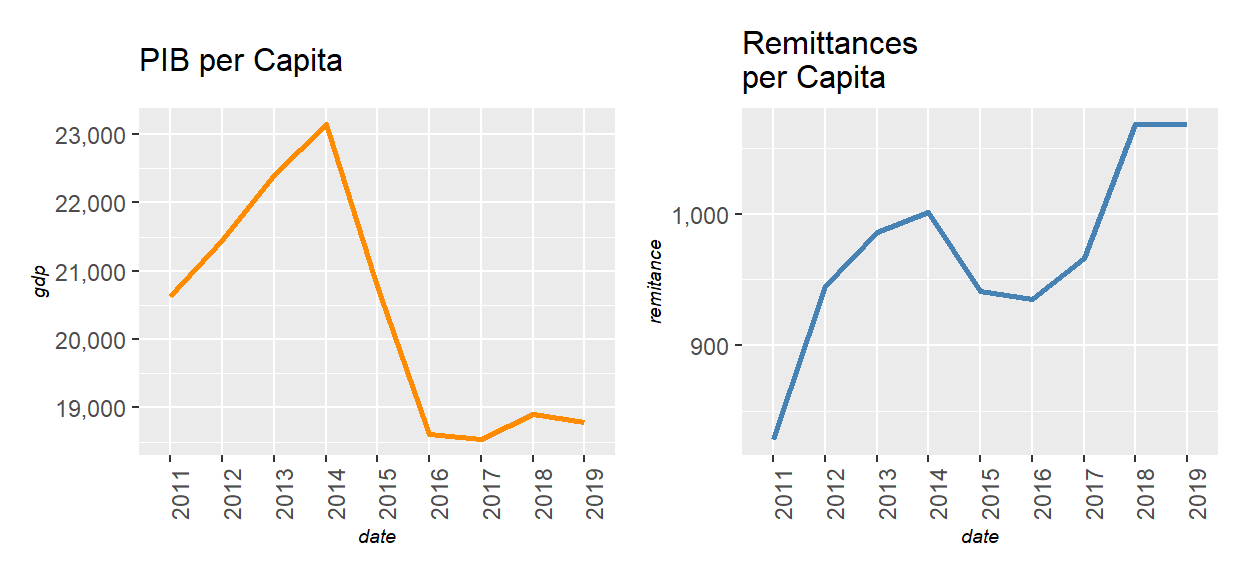
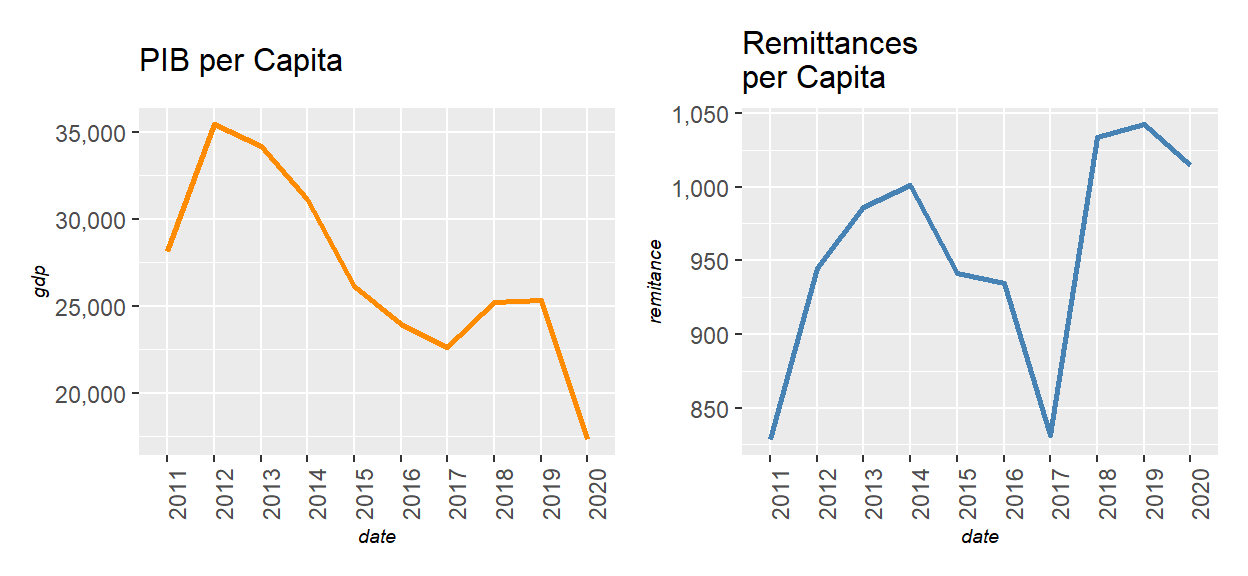
fixes

diff --git a/content/post/2020-01-20-imigration-data-analysis/index.html b/content/post/2020-01-20-imigration-data-analysis/index.html
@@ -167,55 +167,55 @@ remitances_over_gdp %&gt;%
 <td align="right">3</td>
 <td align="left">2018</td>
 <td align="left">Tajikistan</td>
-<td align="left">29.02%</td>
+<td align="left">28.12%</td>
 </tr>
 <tr class="even">
 <td align="right">4</td>
 <td align="left">2018</td>
-<td align="left">Nepal</td>
-<td align="left">28.43%</td>
+<td align="left">Somalia</td>
+<td align="left">25.33%</td>
 </tr>
 <tr class="odd">
 <td align="right">5</td>
 <td align="left">2018</td>
-<td align="left">El Salvador</td>
-<td align="left">20.63%</td>
+<td align="left">Nepal</td>
+<td align="left">25.03%</td>
 </tr>
 <tr class="even">
 <td align="right">6</td>
 <td align="left">2018</td>
-<td align="left">Bermuda</td>
-<td align="left">20.03%</td>
+<td align="left">El Salvador</td>
+<td align="left">20.72%</td>
 </tr>
 <tr class="odd">
 <td align="right">7</td>
 <td align="left">2018</td>
-<td align="left">Honduras</td>
-<td align="left">19.88%</td>
+<td align="left">Bermuda</td>
+<td align="left">20.03%</td>
 </tr>
 <tr class="even">
 <td align="right">8</td>
 <td align="left">2018</td>
-<td align="left">Haiti</td>
-<td align="left">19.68%</td>
+<td align="left">Honduras</td>
+<td align="left">19.99%</td>
 </tr>
 <tr class="odd">
 <td align="right">9</td>
 <td align="left">2018</td>
-<td align="left">Samoa</td>
-<td align="left">17.94%</td>
+<td align="left">Haiti</td>
+<td align="left">19.1%</td>
 </tr>
 <tr class="even">
 <td align="right">10</td>
 <td align="left">2018</td>
-<td align="left">West Bank and Gaza</td>
-<td align="left">17.41%</td>
+<td align="left">Samoa</td>
+<td align="left">17.97%</td>
 </tr>
 <tr class="odd">
 <td align="right">11</td>
 <td align="left">2018</td>
-<td align="left">Yemen, Rep.</td>
-<td align="left">16.05%</td>
+<td align="left">West Bank and Gaza</td>
+<td align="left">17.41%</td>
 </tr>
 <tr class="even">
 <td align="right">12</td>
@@ -227,55 +227,55 @@ remitances_over_gdp %&gt;%
 <td align="right">13</td>
 <td align="left">2018</td>
 <td align="left">Jamaica</td>
-<td align="left">15.92%</td>
+<td align="left">15.9%</td>
 </tr>
 <tr class="even">
 <td align="right">14</td>
 <td align="left">2018</td>
 <td align="left">Kosovo</td>
-<td align="left">15.56%</td>
+<td align="left">15.68%</td>
 </tr>
 <tr class="odd">
 <td align="right">15</td>
 <td align="left">2018</td>
-<td align="left">Uzbekistan</td>
-<td align="left">15.1%</td>
+<td align="left">Comoros</td>
+<td align="left">14.52%</td>
 </tr>
 <tr class="even">
 <td align="right">16</td>
 <td align="left">2018</td>
-<td align="left">Comoros</td>
-<td align="left">14.65%</td>
+<td align="left">Uzbekistan</td>
+<td align="left">14.46%</td>
 </tr>
 <tr class="odd">
 <td align="right">17</td>
 <td align="left">2018</td>
 <td align="left">Marshall Islands</td>
-<td align="left">14.21%</td>
+<td align="left">14.19%</td>
 </tr>
 <tr class="even">
 <td align="right">18</td>
 <td align="left">2018</td>
 <td align="left">Liberia</td>
-<td align="left">14.09%</td>
+<td align="left">13.44%</td>
 </tr>
 <tr class="odd">
 <td align="right">19</td>
 <td align="left">2018</td>
 <td align="left">Guatemala</td>
-<td align="left">12.91%</td>
+<td align="left">12.89%</td>
 </tr>
 <tr class="even">
 <td align="right">20</td>
 <td align="left">2018</td>
-<td align="left">Lebanon</td>
-<td align="left">12.7%</td>
+<td align="left">Gambia, The</td>
+<td align="left">12.69%</td>
 </tr>
 <tr class="odd">
 <td align="right">21</td>
 <td align="left">2018</td>
-<td align="left">Gambia, The</td>
-<td align="left">12.19%</td>
+<td align="left">Lebanon</td>
+<td align="left">12.62%</td>
 </tr>
 <tr class="even">
 <td align="right">22</td>
@@ -287,7 +287,7 @@ remitances_over_gdp %&gt;%
 <td align="right">23</td>
 <td align="left">2018</td>
 <td align="left">Cabo Verde</td>
-<td align="left">11.87%</td>
+<td align="left">11.93%</td>
 </tr>
 <tr class="even">
 <td align="right">24</td>
@@ -299,7 +299,7 @@ remitances_over_gdp %&gt;%
 <td align="right">25</td>
 <td align="left">2018</td>
 <td align="left">Nicaragua</td>
-<td align="left">11.52%</td>
+<td align="left">11.55%</td>
 </tr>
 <tr class="even">
 <td align="right">26</td>
@@ -323,7 +323,7 @@ remitances_over_gdp %&gt;%
 <td align="right">29</td>
 <td align="left">2018</td>
 <td align="left">Senegal</td>
-<td align="left">10.45%</td>
+<td align="left">10.5%</td>
 </tr>
 <tr class="even">
 <td align="right">30</td>
@@ -336,12 +336,6 @@ remitances_over_gdp %&gt;%
 <td align="left">2018</td>
 <td align="left">Egypt, Arab Rep.</td>
 <td align="left">10.22%</td>
-</tr>
-<tr class="even">
-<td align="right">32</td>
-<td align="left">2018</td>
-<td align="left">Kiribati</td>
-<td align="left">10.15%</td>
 </tr>
 </tbody>
 </table>
@@ -389,34 +383,34 @@ remitances[sample(nrow(remitances),5), ] %&gt;%
 </thead>
 <tbody>
 <tr class="odd">
-<td align="left">89</td>
-<td align="left">2012</td>
-<td align="left">Senegal</td>
-<td align="right">117.6113</td>
+<td align="left">23</td>
+<td align="left">2015</td>
+<td align="left">Kenya</td>
+<td align="right">32.7759</td>
 </tr>
 <tr class="even">
-<td align="left">2</td>
-<td align="left">2018</td>
-<td align="left">Congo, Rep.</td>
-<td align="right">0.0000</td>
+<td align="left">46</td>
+<td align="left">2011</td>
+<td align="left">Mali</td>
+<td align="right">50.5400</td>
 </tr>
 <tr class="odd">
-<td align="left">83</td>
-<td align="left">2018</td>
-<td align="left">Senegal</td>
-<td align="right">153.1145</td>
+<td align="left">21</td>
+<td align="left">2017</td>
+<td align="left">Kenya</td>
+<td align="right">39.0725</td>
 </tr>
 <tr class="even">
-<td align="left">52</td>
-<td align="left">2013</td>
-<td align="left">Nigeria</td>
-<td align="right">121.0781</td>
+<td align="left">87</td>
+<td align="left">2020</td>
+<td align="left">Sudan</td>
+<td align="right">11.2968</td>
 </tr>
 <tr class="odd">
-<td align="left">143</td>
+<td align="left">85</td>
 <td align="left">2012</td>
-<td align="left">Uganda</td>
-<td align="right">26.4261</td>
+<td align="left">Rwanda</td>
+<td align="right">17.2899</td>
 </tr>
 </tbody>
 </table>
@@ -504,26 +498,26 @@ gdp+remittances</code></pre>
 <tbody>
 <tr class="odd">
 <td align="center"><strong>(Intercept)</strong></td>
-<td align="center">26.68</td>
-<td align="center">9.947</td>
-<td align="center">2.682</td>
-<td align="center">0.008241</td>
+<td align="center">48.6</td>
+<td align="center">7.462</td>
+<td align="center">6.513</td>
+<td align="center">8.181e-10</td>
 </tr>
 <tr class="even">
 <td align="center"><strong>gdp_pc</strong></td>
-<td align="center">0.02804</td>
-<td align="center">0.005904</td>
-<td align="center">4.748</td>
-<td align="center">5.232e-06</td>
+<td align="center">0.004811</td>
+<td align="center">0.003146</td>
+<td align="center">1.529</td>
+<td align="center">0.1281</td>
 </tr>
 </tbody>
 </table>
-<table style="width:86%;">
+<table style="width:89%;">
 <caption>Fitting linear model: remitances_adj ~ gdp_pc</caption>
 <colgroup>
 <col width="20%" />
 <col width="30%" />
-<col width="11%" />
+<col width="13%" />
 <col width="23%" />
 </colgroup>
 <thead>
@@ -536,10 +530,10 @@ gdp+remittances</code></pre>
 </thead>
 <tbody>
 <tr class="odd">
-<td align="center">135</td>
-<td align="center">68.46</td>
-<td align="center">0.145</td>
-<td align="center">0.1385</td>
+<td align="center">170</td>
+<td align="center">72.35</td>
+<td align="center">0.01373</td>
+<td align="center">0.007856</td>
 </tr>
 </tbody>
 </table>

diff --git a/content/authors/admin/_index.md b/content/authors/admin/_index.md
@@ -6,7 +6,7 @@ title:
 superuser: true
 
 # Role/position
-role: 
+role:
 
 # Organizations/Affiliations
 organizations:
@@ -33,9 +33,6 @@ social:
 - icon: linkedin
   icon_pack: fab
   link: https://www.linkedin.com/in/franciscopiccolo/
-- icon: twitter
-  icon_pack: fab
-  link: https://twitter.com/FranciscoPicco1
 - icon: github
   icon_pack: fab
   link: https://github.com/FranciscoPiccolo
@@ -53,4 +50,4 @@ user_groups:
 - Visitors
 ---
 
-Olá, bem vindo a este humilde blog que trará conteúdo sobre BI, estatística e outros temas relacionados (como livros recomendados, webminars, etc). Decidi construir este blog para aprimorar minha escrita e tentar ajudar a comunidade de dados com um pouco de conteúdo. Atualmente trabalho na área de BI da Amazon e desde 2015 atuo nesta área de *analytics*, fazendo modelagem de dados, construindo datasets, ETLs, visualizações e o mais importante, ajudando a área de negócio a tomar decisões e melhorar processos. Se tiver alguma sugestão, me envie mensagem pelo twitter, linkedin ou abrindo uma *issue* no repositóro do Github que hospeda este site.
+Olá, bem vindo a este humilde blog que trará conteúdo sobre BI, estatística e outros temas relacionados (como livros recomendados, webminars, etc). Decidi construir este blog para aprimorar minha escrita e tentar ajudar a comunidade de dados com um pouco de conteúdo. Atualmente trabalho na área de BI da Amazon e desde 2015 atuo nesta área de *analytics*, fazendo modelagem de dados, construindo datasets, ETLs, visualizações e o mais importante, ajudando a área de negócio a tomar decisões e melhorar processos. Se tiver alguma sugestão, me envie mensagem pelo linkedin ou pode abrir uma *issue* no repositóro do Github que hospeda este site.
